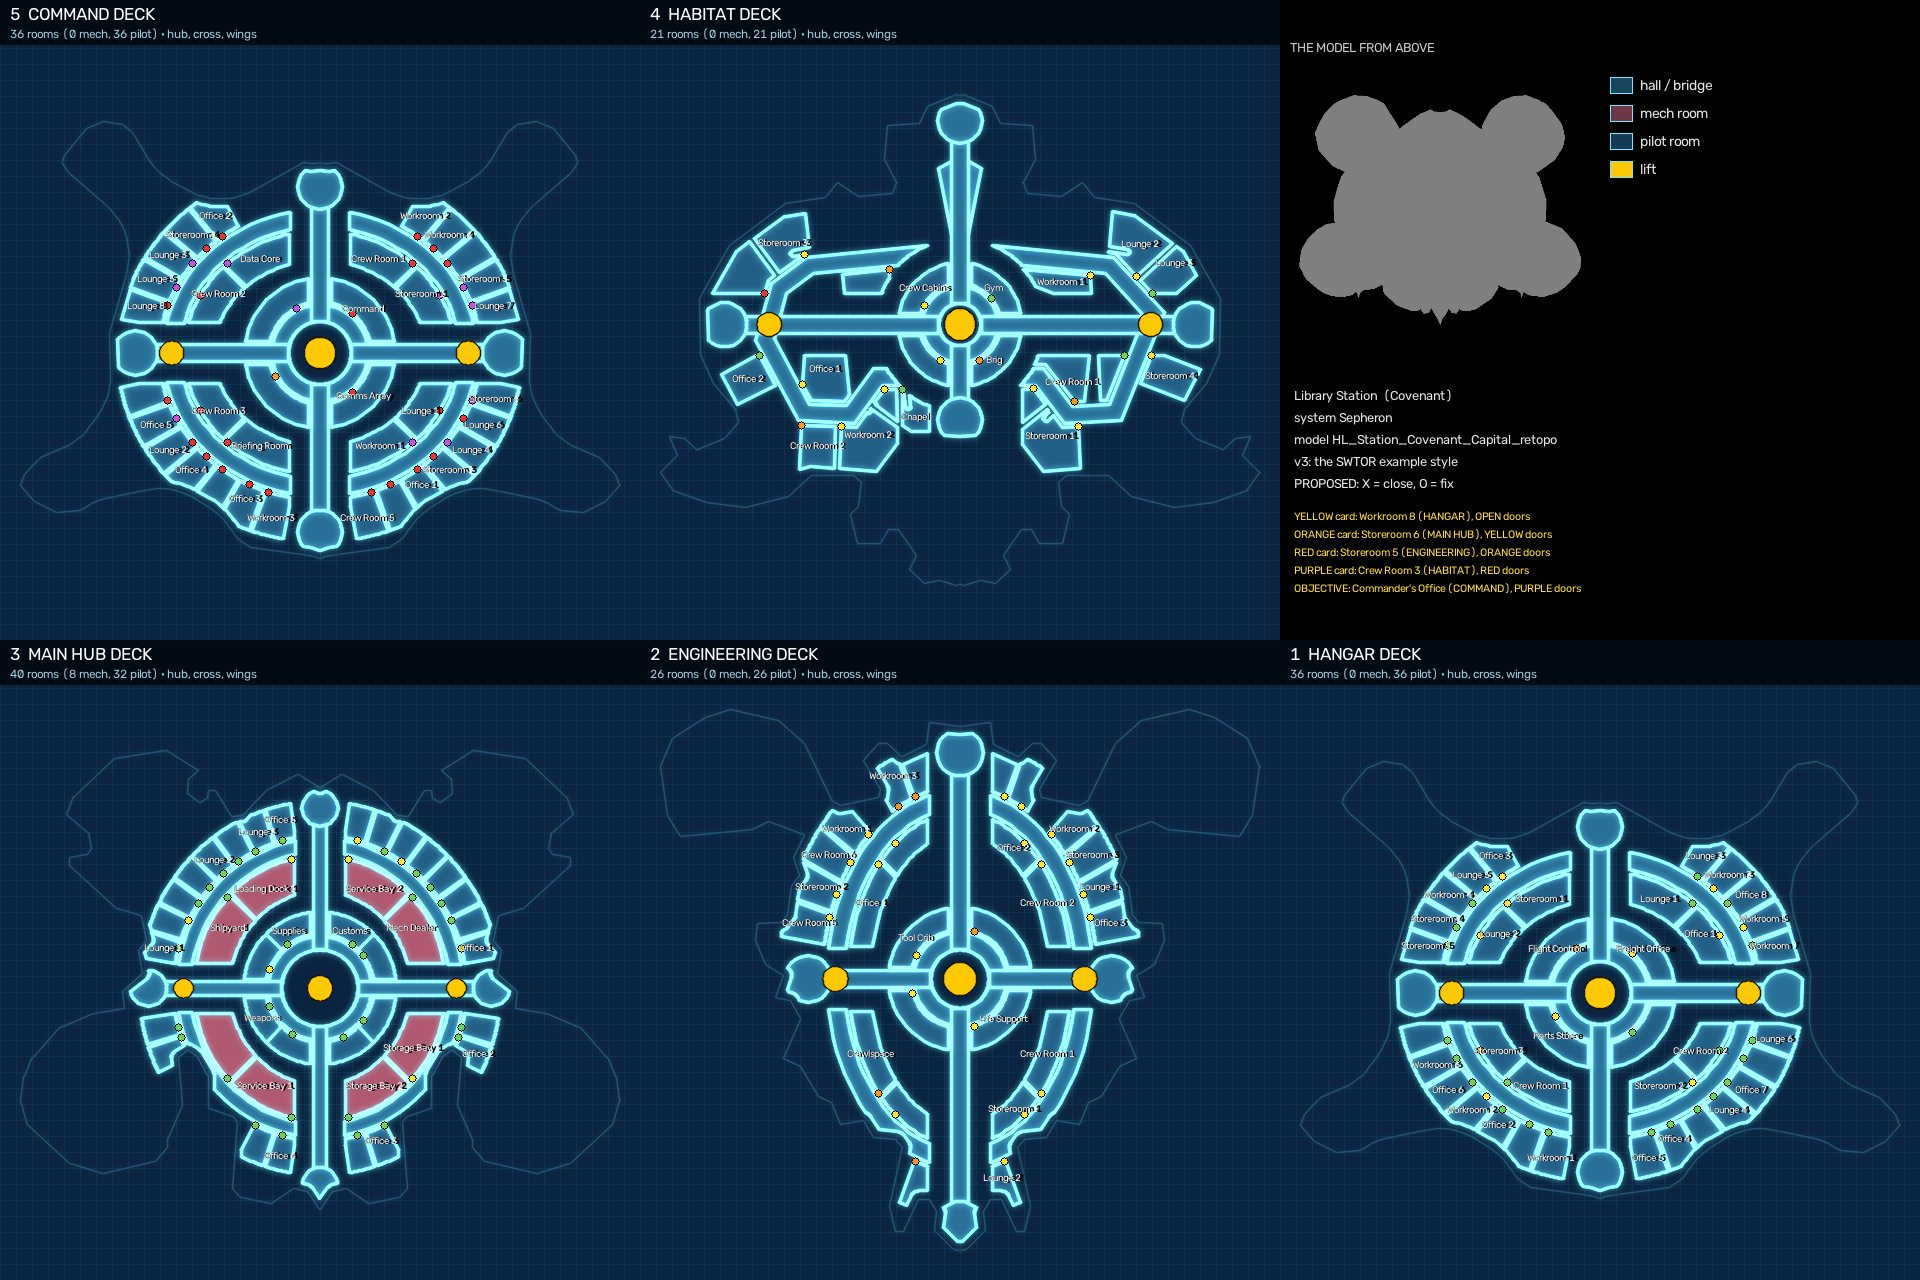
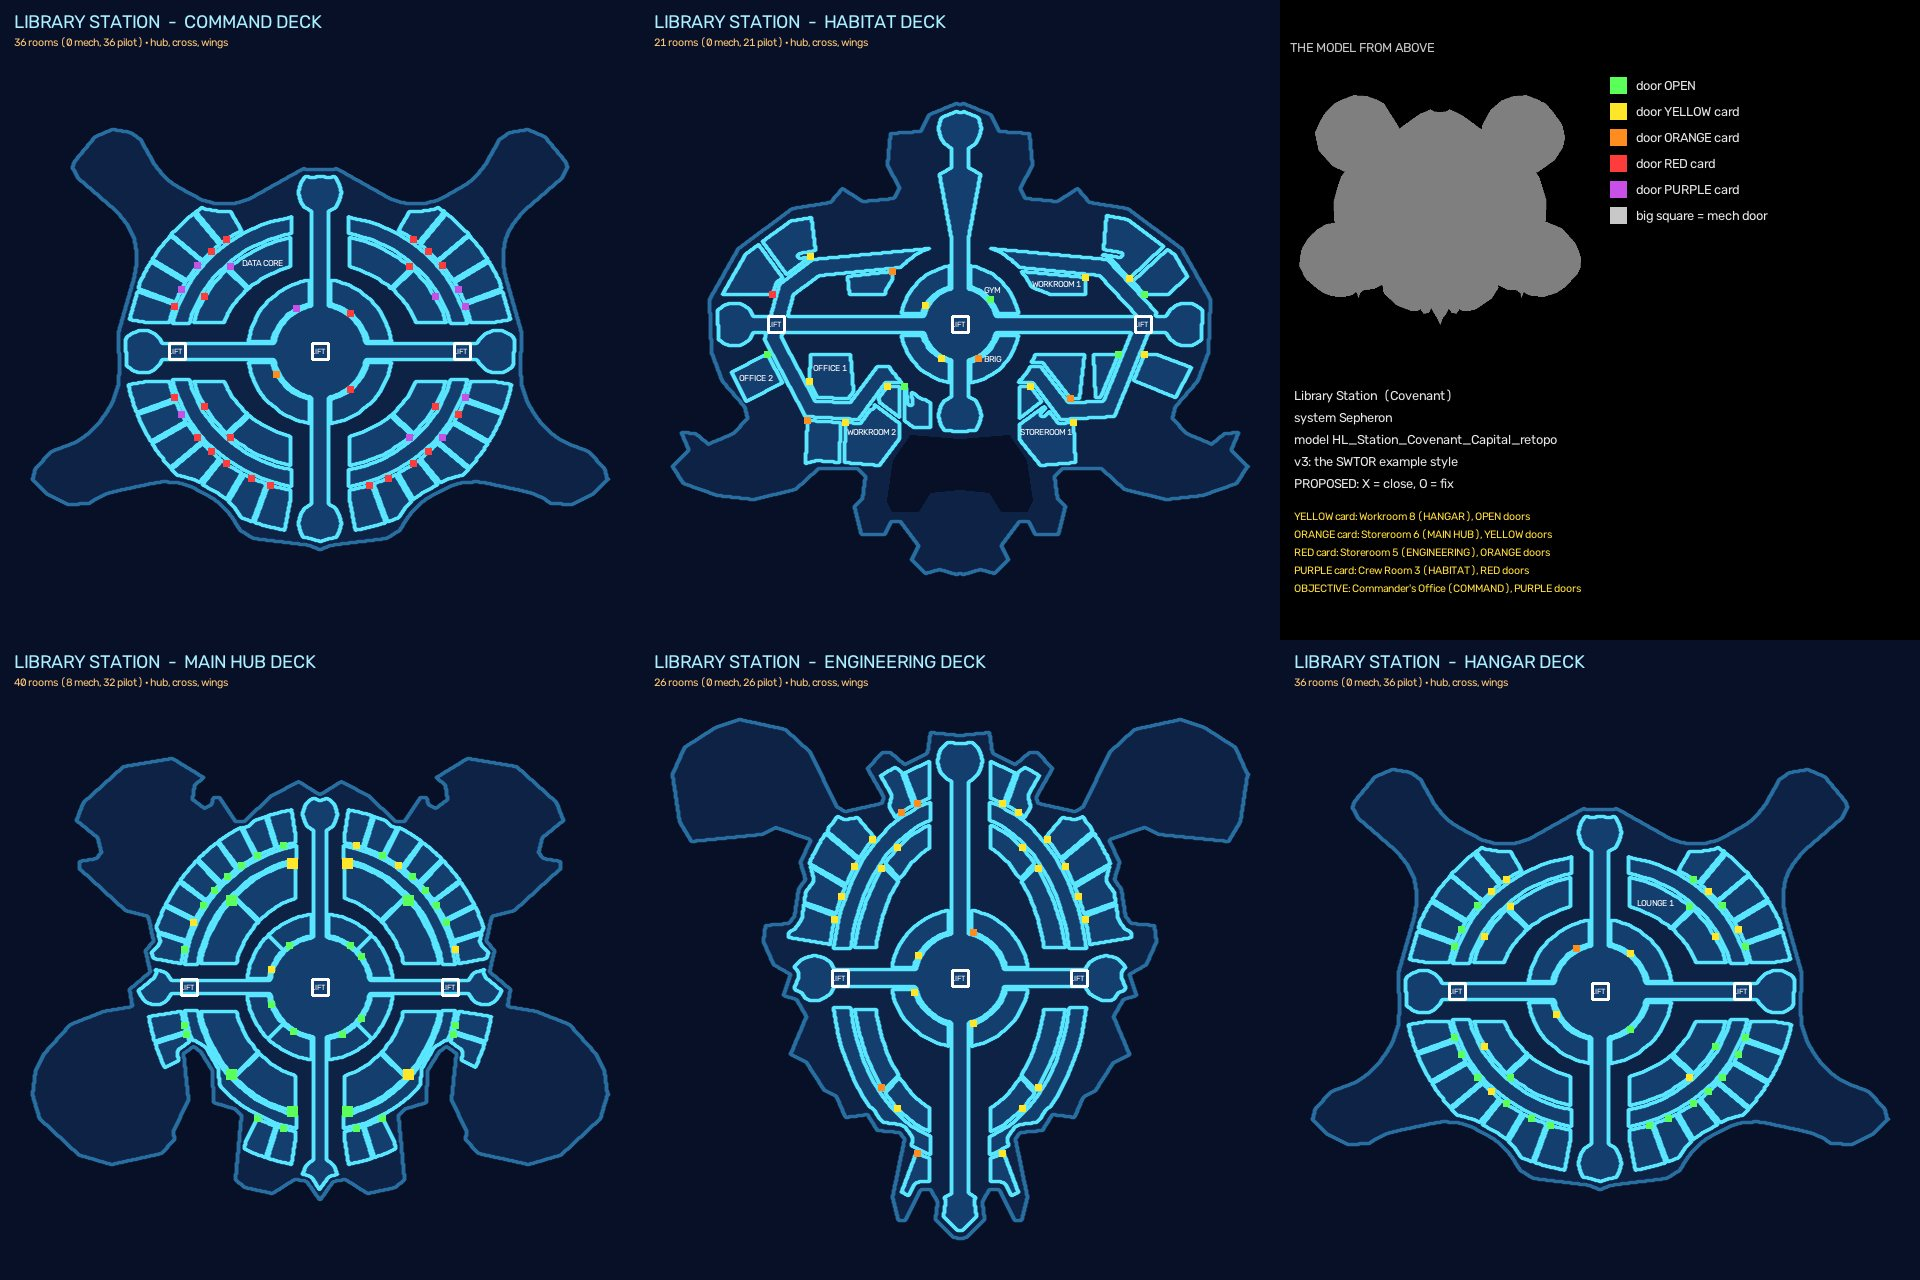
station decks v3: all 49 in the fleet ships' in-game deck-map look (dark blue, cyan walls, key-coloured door squares, LIFT boxes) with the SWTOR hub/cross/wing layout; ring stations' lifts moved to solid floor. Not in the game.
Claude-Session: https://claude.ai/code/session_01SinQW9aeLHqCBjq9e21Gyo

diff --git a/tools/trace/station_swtor.py b/tools/trace/station_swtor.py
@@ -53,7 +53,7 @@ def layout(ol, role):
     inner = ol.buffer(-1.5 * PX, join_style=2)
     inner = max(parts(inner), key=lambda g: g.area)
     R = {d: SW.ray(inner, (0, 0), d, 200 * PX) for d in (0, 90, 180, 270)}
-    rx, ry = min(R[0], R[180]), max(R[90], R[270])
+    rx, ry = min(R[0], R[180]), max(R[90], R[270], 1.0)
     YK[0], YK[1] = R[90] / ry, R[270] / ry
     ry_min = min(R[90], R[270])
     big = role in ("MAIN HUB",)
@@ -175,49 +175,60 @@ LINE = (255, 230, 120)       # BGR cyan glow
 DIM = (150, 120, 40)
 
 
-def draw(L, title, sub, rooms_named):
+DOOR_BGR = {0: (90, 255, 90), 1: (40, 230, 255), 2: (30, 140, 255), 3: (60, 60, 255), 4: (230, 80, 200)}   # the ships' map colours + purple
+
+
+def draw(L, title, sub, rooms_named, size=640, header=True):
+    """the deck in the SAME look as the fleet ships' in-game deck maps (tools/holodeck: dark blue, the hull a shade
+    lighter, the floor in blue with bright cyan walls, key-coloured door squares, white LIFT boxes, names in capitals)"""
     g = L["outline"]; x0, y0, x1, y1 = g.bounds
-    S = 600.0 / max(x1 - x0, y1 - y0)
-    ox, oy = 320 - (x0 + x1) / 2 * S, 340 - (y0 + y1) / 2 * S
+    S = size * 0.9 / max(x1 - x0, y1 - y0)
+    ox, oy = size / 2 - (x0 + x1) / 2 * S, size * 0.53 - (y0 + y1) / 2 * S
     T = lambda q: affinity.affine_transform(q, [S, 0, 0, S, ox, oy])
-    img = np.zeros((640, 640, 3), np.uint8); img[:] = (40, 22, 6)
-    for x in range(0, 640, 16): cv2.line(img, (x, 0), (x, 640), (55, 34, 12), 1)
-    for y in range(0, 640, 16): cv2.line(img, (0, y), (640, y), (55, 34, 12), 1)
-    def poly(q, fill, edge, t=2):
+    img = np.zeros((size, size, 3), np.uint8); img[:] = (40, 16, 8)
+    def mask(q):
+        m = np.zeros((size, size), np.uint8)
         for p in parts(T(q)):
-            pts = np.array(p.exterior.coords, np.int32)
-            if fill is not None: cv2.fillPoly(img, [pts], fill)
-            for h in p.interiors:
-                if fill is not None: cv2.fillPoly(img, [np.array(h.coords, np.int32)], (40, 22, 6))
-            cv2.polylines(img, [pts], True, edge, t, cv2.LINE_AA)
-            for h in p.interiors: cv2.polylines(img, [np.array(h.coords, np.int32)], True, edge, t, cv2.LINE_AA)
-    cv2.polylines(img, [np.array(T(g).exterior.coords, np.int32)], True, (90, 70, 30), 1, cv2.LINE_AA)   # the hull, faint
-    for kd, q in L["halls"]:
-        poly(q, (95, 70, 25) if kd != "hub" else (110, 80, 30), LINE, 2)
-    for p in L["pods"]: poly(p, (95, 70, 25), LINE, 2)
+            m1 = np.zeros_like(m)
+            cv2.fillPoly(m1, [np.array(p.exterior.coords, np.int32)], 1)
+            for h in p.interiors: cv2.fillPoly(m1, [np.array(h.coords, np.int32)], 0)
+            m |= m1
+        return m
+    hull = mask(g)
+    img[hull > 0] = (70, 34, 14)
+    cs, _ = cv2.findContours(hull, cv2.RETR_EXTERNAL, cv2.CHAIN_APPROX_NONE)
+    cv2.drawContours(img, cs, -1, (160, 110, 40), 2, cv2.LINE_AA)
+    floor = unary_union([q for _, q in L["halls"]] + L["pods"])
+    fm = mask(floor)
+    img[fm > 0] = (110, 62, 20)
     for r in rooms_named:
-        tint = (70, 55, 110) if r["kind"] == "mech" else (85, 60, 22)
-        poly(r["poly"], tint, LINE, 2)
-    glow = cv2.GaussianBlur(img, (0, 0), 3)
-    img = cv2.addWeighted(img, 1.0, glow, 0.6, 0)
-    for nm, q in L["lifts"]: poly(q, (0, 200, 255), (0, 0, 0), 1)
+        rm = mask(r["poly"])
+        img[rm > 0] = (110, 62, 20)
+        cs, _ = cv2.findContours(rm, cv2.RETR_CCOMP, cv2.CHAIN_APPROX_NONE)
+        cv2.drawContours(img, cs, -1, (255, 230, 90), 2, cv2.LINE_AA)
+    cs, _ = cv2.findContours(fm, cv2.RETR_CCOMP, cv2.CHAIN_APPROX_NONE)
+    cv2.drawContours(img, cs, -1, (255, 230, 90), 2, cv2.LINE_AA)
+    k = size / 640.0
     for r in rooms_named:
         d = T(Point(r["door"]))
-        cv2.circle(img, (int(d.x), int(d.y)), 4, SP.KEY_COL[r["key"]], -1)
-        cv2.circle(img, (int(d.x), int(d.y)), 4, (0, 0, 0), 1)
+        h = int((5 if r["kind"] == "mech" else 3.5) * k)
+        cv2.rectangle(img, (int(d.x) - h, int(d.y) - h), (int(d.x) + h, int(d.y) + h), DOOR_BGR[r["key"]], -1)
+    for nm, q in L["lifts"]:
+        c = T(q.centroid); h = int(8 * k)
+        cv2.rectangle(img, (int(c.x) - h, int(c.y) - h), (int(c.x) + h, int(c.y) + h), (255, 255, 255), max(1, int(2 * k)))
+        cv2.putText(img, "LIFT", (int(c.x) - int(9 * k), int(c.y) + int(3 * k)), 0, 0.26 * k, (255, 255, 255), 1, cv2.LINE_AA)
+    for r in rooms_named:
         q = T(r["poly"])
-        if q.area < 500: continue
-        t = r["name"] + (" *%s" % SP.KEY_NAME[r["card"]] if r.get("card") else "") + (" [OBJ]" if r.get("objective") else "")
-        c = q.representative_point()
-        sc = 0.32
+        t = r["name"].upper() + (" * %s CARD" % SP.KEY_NAME[r["card"]] if r.get("card") else "") + (" [OBJECTIVE]" if r.get("objective") else "")
+        sc = 0.3 * k
         (tw, th), _ = cv2.getTextSize(t, 0, sc, 1)
-        if tw > math.sqrt(q.area) * 1.6: continue
-        col = (0, 255, 255) if r.get("card") or r.get("objective") else (255, 255, 255)
-        cv2.putText(img, t, (int(c.x - tw / 2), int(c.y + 3)), 0, sc, (0, 0, 0), 3, cv2.LINE_AA)
-        cv2.putText(img, t, (int(c.x - tw / 2), int(c.y + 3)), 0, sc, col, 1, cv2.LINE_AA)
-    cv2.rectangle(img, (0, 0), (640, 44), (20, 10, 2), -1)
-    cv2.putText(img, title, (10, 20), 0, 0.6, (255, 255, 255), 1, cv2.LINE_AA)
-    cv2.putText(img, sub, (10, 38), 0, 0.4, (220, 200, 160), 1, cv2.LINE_AA)
+        c = q.representative_point()
+        if not q.buffer(1).contains(box(c.x - tw / 2, c.y - th / 2 - 1, c.x + tw / 2, c.y + th / 2 + 1)): continue   # (only a name that fits its room)
+        col = (60, 230, 255) if r.get("card") or r.get("objective") else (255, 255, 255)
+        cv2.putText(img, t, (int(c.x - tw / 2), int(c.y + th / 2)), 0, sc, col, 1, cv2.LINE_AA)
+    if header:
+        cv2.putText(img, title, (int(14 * k), int(28 * k)), 0, 0.62 * k, (255, 240, 170), max(1, int(1.5 * k)), cv2.LINE_AA)
+        cv2.putText(img, sub, (int(14 * k), int(46 * k)), 0, 0.36 * k, (120, 200, 255), 1, cv2.LINE_AA)
     return img
 
 
@@ -230,6 +241,16 @@ def build(st):
     c0 = O["c"]
     to_plan = lambda g: affinity.affine_transform(g, [f, 0, 0, f, -c0[0] * f, -c0[1] * f])
     OLS = [SD.mirror_true(to_plan(O["polys"][k])) for k in range(5)]
+    def room_at(y):   # (as station_decks: the lift axis goes where the decks are solid - a ring station's hole is not)
+        pt = Point(0, y); sc = 0.0
+        for k2, g in enumerate(OLS):
+            w = 3.0 if k2 == 2 else 1.0
+            sc += w * (g.exterior.distance(pt) if g.contains(pt) and not any(Polygon(h).contains(pt) for h in g.interiors) else -50 * PX)
+        return sc
+    ys = [y * PX for y in range(-70, 71, 2)]
+    y0 = max(ys, key=lambda y: (room_at(y), -abs(y)))
+    if room_at(0.0) >= 0.85 * room_at(y0): y0 = 0.0
+    OLS = [affinity.translate(g, 0, -y0) for g in OLS]
     hub_ol = OLS[2]
     decks, panels = [], []
     for k, role in enumerate(SP.DECKS):
@@ -262,14 +283,15 @@ def build(st):
     for D in decks:
         L = D["_L"]
         n = len(D["rooms"]); nm = sum(r["kind"] == "mech" for r in D["rooms"])
-        panels.append(draw(L, "%d  %s DECK" % (D["deck"], D["role"]), "%d rooms (%d mech, %d pilot) · hub, cross, %s" % (n, nm, n - nm, "wings" if L["wing"] else "no wings"), D["rooms"]))
+        panels.append(draw(L, "%s  -  %s DECK" % (st["name"].upper(), D["role"]), "%d rooms (%d mech, %d pilot) · hub, cross, %s" % (n, nm, n - nm, "wings" if L["wing"] else "no wings"), D["rooms"]))
     leg = SW.legend(O["top"], st, ["%s  (%s)" % (st["name"], st["faction"] or "-"), "system %s" % st["system"], "model %s" % model,
                                     "v3: the SWTOR example style", "PROPOSED: X = close, O = fix"])
     cv2.rectangle(leg, (325, 60), (640, 360), (0, 0, 0), -1)
     y = 90
-    for txt, col in (("hall / bridge", (95, 70, 25)), ("mech room", (70, 55, 110)), ("pilot room", (85, 60, 22)), ("lift", (0, 200, 255))):
-        cv2.rectangle(leg, (330, y - 13), (352, y + 3), col, -1); cv2.rectangle(leg, (330, y - 13), (352, y + 3), LINE, 1)
-        cv2.putText(leg, txt, (360, y), 0, 0.48, (230, 230, 230), 1, cv2.LINE_AA); y += 28
+    for txt, col in (("door OPEN", DOOR_BGR[0]), ("door YELLOW card", DOOR_BGR[1]), ("door ORANGE card", DOOR_BGR[2]),
+                     ("door RED card", DOOR_BGR[3]), ("door PURPLE card", DOOR_BGR[4]), ("big square = mech door", (200, 200, 200))):
+        cv2.rectangle(leg, (330, y - 13), (346, y + 3), col, -1)
+        cv2.putText(leg, txt, (356, y), 0, 0.46, (230, 230, 230), 1, cv2.LINE_AA); y += 26
     y = 520
     for ln in chain[:6]:
         cv2.putText(leg, ln[:70], (14, y), 0, 0.38, (60, 220, 255), 1, cv2.LINE_AA); y += 18
